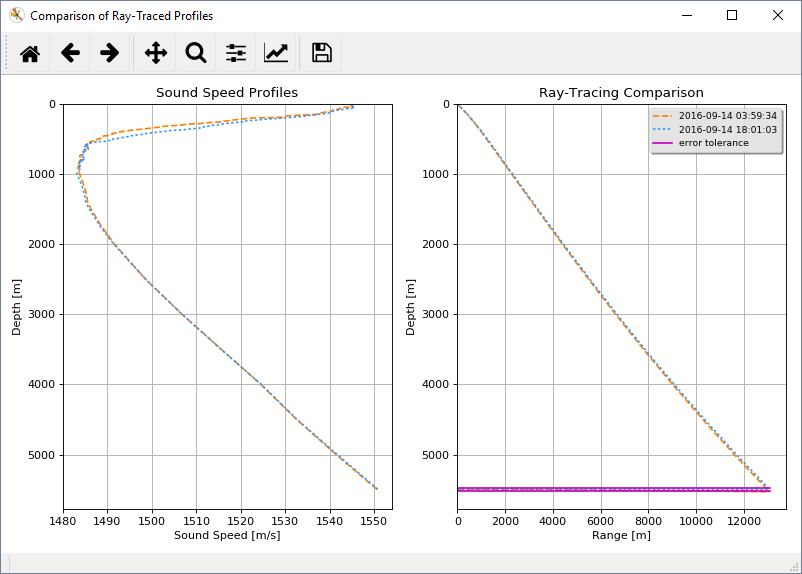
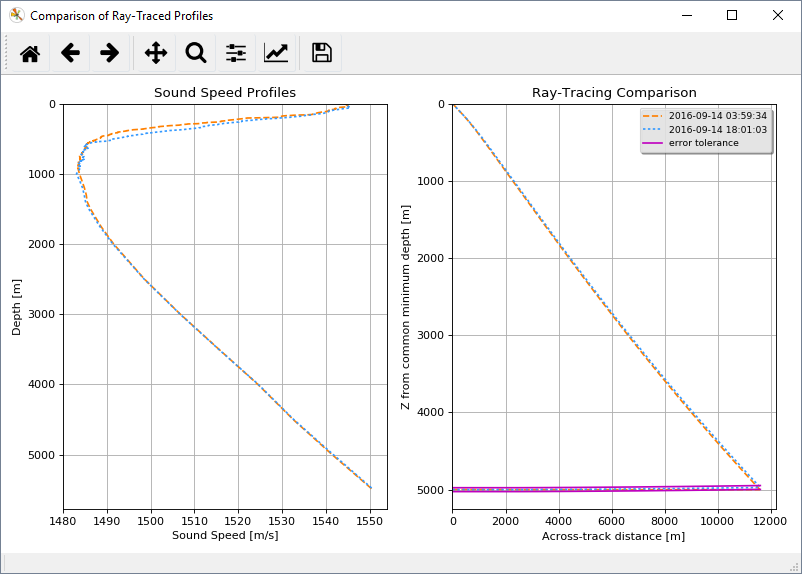
updated ray-tracing plots

diff --git a/hyo/soundspeed/profile/ray_tracing/plot_tracedprofiles.py b/hyo/soundspeed/profile/ray_tracing/plot_tracedprofiles.py
@@ -55,7 +55,7 @@ class PlotTracedProfiles:
         # create figure
         plt.close("Comparison of Ray-Traced Profiles")  # if any
         fig = plt.figure(num="Comparison of Ray-Traced Profiles",
-                                         figsize=(10, 6), dpi=80, facecolor='w', edgecolor='k')
+                         figsize=(10, 6), dpi=80, facecolor='w', edgecolor='k')
 
         z_max = max(max(self._d.new_tp.data[0]), max(self._d.old_tp.data[0]))
         ss_min = min(min(self._d.new_tp.data[1]), min(self._d.old_tp.data[1]))
@@ -159,7 +159,15 @@ class PlotTracedProfiles:
 
         for ang, ray in enumerate(self._d.new_rays):
 
-            for idx in range(0, len(ray[0]), 10):
+            nr_samples = len(ray[0])
+            if nr_samples < 500:
+                nr_steps = 10
+            elif nr_samples < 2500:
+                nr_steps = 50
+            else:
+                nr_steps = 100
+
+            for idx in range(0, nr_samples, nr_steps):
 
                 try:
                     _ = ray[0][idx]
